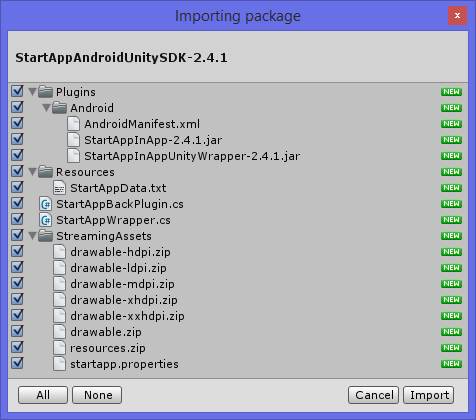
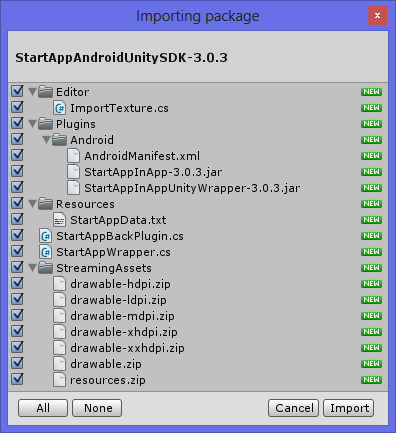
1

Changed region(s): [[0.0, 0.0, 1.0, 0.9905], [0.6364, 0.4024, 0.7576, 0.4643]]

diff --git a/unity/Android-InApp-Unity-Documentation.md b/unity/Android-InApp-Unity-Documentation.md
@@ -1,6 +1,6 @@
 <a name="top" />
 
-**Latest version: 2.4.13**
+**Latest version: 3.1.1**
 
 <img src="./unity/images/unity-android-intro.png" width="640px" /><br></br>
 
@@ -19,7 +19,7 @@ In order to add StartApp SDK to your application please follow the following ste
 
 <img src="./unity/images/unity-android-import-package.png" />
 
-**3.** Import all the package's items by pressing "All" and then "Import". If you already have an AndroidManifest.xml file, uncheck it before pressing "Import". 
+**3.** Import all the package's items by pressing "All" and then "Import".   
 <img src="./unity/images/unity-android-import-all.png" />
 
 [Back to top](#top)
@@ -34,18 +34,35 @@ Update the _manifest.xml_ (in the _Android_ folders) as follow:
 
 ```xml
 <activity android:name="com.startapp.android.publish.list3d.List3DActivity"
-          android:hardwareAccelerated="true"
-          android:theme="@android:style/Theme.NoTitleBar.Fullscreen"/>
-
-<activity android:name="com.startapp.android.publish.AppWallActivity" 
-          android:theme="@android:style/Theme.Translucent.NoTitleBar.Fullscreen" 
-          android:hardwareAccelerated="true"
-          android:configChanges="orientation|keyboardHidden|screenSize" />
+                        android:hardwareAccelerated="true"
+                        android:theme="@android:style/Theme" />
+<activity android:name="com.startapp.android.publish.OverlayActivity"
+                        android:theme="@android:style/Theme.Translucent.NoTitleBar.Fullscreen"
+                        android:hardwareAccelerated="true"
+                        android:windowSoftInputMode="stateHidden"
+                        android:configChanges="orientation|keyboardHidden|screenSize" />
+<activity android:name="com.startapp.android.publish.FullScreenActivity"
+                        android:hardwareAccelerated="true"
+                        android:theme="@android:style/Theme"
+                        android:configChanges="orientation|keyboardHidden|screenSize" />
 ```
 
 **2.** Make sure the meta-data parameter named `unityplayer.ForwardNativeEventsToDalvik` is set to `true`:
 ```xml
 <meta-data android:name="unityplayer.ForwardNativeEventsToDalvik" android:value="true" />
+```
+
+**3.** Add the following mandatory permissions
+```xml
+<uses-permission android:name="android.permission.INTERNET"/>
+<uses-permission android:name="android.permission.ACCESS_WIFI_STATE"/>
+<uses-permission android:name="android.permission.ACCESS_NETWORK_STATE"/>
+```
+
+**4.** Optional - add the following permissions (allow StartApp to show higher eCPM Geo-targeted ads):
+```xml
+<uses-permission android:name="android.permission.ACCESS_COARSE_LOCATION" />
+<uses-permission android:name="android.permission.ACCESS_FINE_LOCATION" />
 ```
 
 [Back to top](#top)
@@ -56,10 +73,8 @@ Update the _manifest.xml_ (in the _Android_ folders) as follow:
 ##Step 3, Updating your StartApp data file
 Update the _StartAppData.txt_ (in the Assets/Resources folders) as follows:
 
-**1.** Add your StartApp Account ID after ``developerId=``.  
-For example: ``developerId=103343523``  
-**2.** Add your StartApp Application ID after ``applicationId=``.   
-For example: ``applicationId=204346543``  
+**1.** Add your StartApp Account ID after ``accountId=`` <br></br>
+**2.** Add your StartApp Application ID after ``applicationId=`` <br></br>
 
 You can find your Account and Application IDs in the [developers’ portal](https://portal.startapp.com/#/signin).<br></br>
 After logging in, your account ID will be displayed at the top right-hand corner of the page:
@@ -68,12 +83,50 @@ After logging in, your account ID will be displayed at the top right-hand corner
 To find your application ID, click on the "Apps and Sites" tab on the left pane and choose the relevant ID from your app list:<br></br>
 <img src="./Android/images/android-appId.png" />
 
+[Back to top](#top)
+
+<a name="splash" />
+##Showing a Splash Ad (recommended)
+A Splash Ad is a full-page ad that is displayed immediately after the application is launched.
+A Splash Ad first displays a full page splash screen that you define (as described below) followed by a full page ad. 
+
+> **StartApp Splash Ad is a top performing ad unit, presenting the industry's highest CPM's**  
+> **supported for Unity v4.2 and above**    
+
+####Adding the Splash Screen 
+First, import the sdk namespace
+```csharp
+using StartApp;
+```
+
+Then, in the ``OnGUI()`` method of your script, call the following static function:
+```csharp
+void OnGUI () {
+#if UNITY_ANDROID
+StartAppWrapper.showSplash();
+#endif
+}
+```
+
+**If you wish to customize the splash screen, please refer to the [Advanced Usage](unity-android-advanced-usage#CustomizingSplashScreen).**
+
+[Back to top](#top)
+
+
+<a name="return" />
+##Showing Return Ads
+The **Return Ad** is a new ad unit which is displayed once the user returns to your application after a certain period of time.  To minimize the intrusiveness, short time periods are ignored. For example, the Return Ad won't be displayed if the user leaves your application to take a short phone call before returning. 
+
+Return ads are enabled and activated by default. If you want to disable this feature, simply change "returnAds" value to "false" in your StartApp data file (see "Step 3" above):
+```csharp
+returnAds=false;
+```
 
 [Back to top](#top)
 
 
 <br></br>
-<a name="step4" />
+<a name="exit" />
 ##Adding an exit ad to your project
 
 Use the *StartAppBackPlugin* in components where you would like the user to press 'back' to exit the application. The plugin will show an ad and then exit the application.
@@ -85,9 +138,75 @@ Use the *StartAppBackPlugin* in components where you would like the user to pres
 
 [Back to top](#top)
 
+<a name="interstitial" />
+##Showing Interstitial Ads
 
-<br></br>
-<a name="step5" />
+You can choose to show the interstitial ad in several locations within your application.
+This could be upon entering (``Start()``), between stages, while waiting for an action and more.
+
+We do, however, recommend showing the ad upon exiting the application by using the ‘Back’ button, as explained in the previous section.
+
+Add the following code to the appropriate place or places within your activities in which you would like to show the ad:
+
+**1.** Import the sdk namespace
+```csharp
+using StartApp;
+```
+
+**2.** Load the ad
+```csharp
+void Start () {
+#if UNITY_ANDROID
+StartAppWrapper.loadAd();
+#endif
+}
+```
+
+**3.** Show the ad
+```csharp
+#if UNITY_ANDROID
+StartAppWrapper.showAd();
+StartAppWrapper.loadAd();
+#endif
+```
+
+####Showing Rewarded Video Ads
+Rewarded Ads are interstitial video ads that provide a reward to the user in exchange for watching an entire video ad. The reward might be in-app goods, virtual currency or any premium content provided by the application. Because users actually opt-in to watch a rewarded video and are granted with something valuable in return, Rewarded Ads are an effective and clean monetization solution for stronger user retention and keeping users engaged in your application for a longer amount of time.
+
+In order to show a Rewarded Ad, follow the following steps:  
+**1.** Inside your ``Start()`` method, declare a video listener and load the rewarded video ad:
+```csharp
+#if UNITY_ANDROID
+videoListener = new VideoListenerImplementation ();
+StartAppWrapper.setVideoListener (videoListener);
+StartAppWrapper.loadAd(StartAppWrapper.AdMode.REWARDED_VIDEO);
+```
+
+**2.** 
+Implement the ``videoListener`` in order to get a callback when the user completes watching the video and is eligible for getting the reward:  
+```csharp
+#if UNITY_ANDROID
+public class VideoListenerImplementation : StartAppWrapper.VideoListener {
+   public void onVideoCompleted() {
+      // Grant user with the reward
+   }
+}
+#endif
+```
+
+**3.** Show the ad
+```csharp
+#if UNITY_ANDROID
+StartAppWrapper.showAd();
+StartAppWrapper.loadAd(StartAppWrapper.AdMode.REWARDED_VIDEO);
+#endif
+```
+ 
+> **IMPORTANT:** Loading an ad might take a few seconds especially in the case of a video, so it's important not to show the ad immediately after loading it. In case you call showAd() while the ad hasn't been successfully loaded yet, nothing will be displayed. It is recommended to use the "onReceiveAd" callback which is triggered when an ad was loaded and ready to use (see [Adding a Callback when an Interstitial Ad is loaded](https://github.com/StartApp-SDK/Documentation/wiki/unity-android-advanced-usage#load-callback)).
+
+[Back to top](#top)
+
+<a name="banners" />
 ##Showing Banners
 To add a banner to your application add the following code in the appropriate place:
 
@@ -113,42 +232,6 @@ void Start () {
 <br></br><img src="./iOS/images/V.png" hspace="15px" width="12px" /> StartAppWrapper.BannerPosition.TOP
 
 For advanced usage, such as showing a specific banner type or hiding the banner, please refer to the [Advanced Usage](unity-android-advanced-usage#banners).
-
-[Back to top](#top)
-
-
-<br></br>
-<a name="step6" />
-##Showing Interstitial Ads
-
-You can choose to show the interstitial ad in several locations within your application.
-This could be upon entering (onCreate), between stages, while waiting for an action and more.
-
-We do, however, recommend showing the ad upon exiting the application by using the ‘Back’ button as explained in step 4 above.
-
-Add the following code to the appropriate place or places within your activities in which you would like to show the ad:
-
-**1.** Import the sdk namespace
-```csharp
-using StartApp;
-```
-
-**2.** Load the ad
-```csharp
-void Start () {
-#if UNITY_ANDROID
-StartAppWrapper.loadAd();
-#endif
-}
-```
-
-**3.** Show the ad
-```csharp
-#if UNITY_ANDROID
-StartAppWrapper.showAd();
-StartAppWrapper.loadAd();
-#endif
-```
 
 [Back to top](#top)
 

diff --git a/unity/Unity-Android-Advanced-Usage.md b/unity/Unity-Android-Advanced-Usage.md
@@ -56,7 +56,7 @@ StartAppWrapper.removeBanner(StartAppWrapper.BannerPosition.BOTTOM);
 #endif
 ```
 
-In order to show the banner again, simply use the addBanner() method as described in ["Showing Banners"](Android-InApp-Unity-Documentation#step5).
+In order to show the banner again, simply use the addBanner() method as described in ["Showing Banners"](Android-InApp-Unity-Documentation#banners).
 
 [Back to top](#top)
 
@@ -83,5 +83,83 @@ public void adDisplayed(){
 public void adClicked(){
 }
 ```
+
+[Back to top](#top)
+
+
+<a name="CustomizingSplashScreen" />
+##Customizing the Splash Screen
+StartApp In-Ad provides a few pre-defined templates of splash screens in which you can place your own creatives, such as application name, logo and loading animation, as described below.
+
+####Customizing the Splash Screen
+In the ``Start()`` method of your script, call the following static function:
+```csharp
+#if UNITY_ANDROID
+StartAppWrapper.showSplash(splashConfig);
+#endif
+```
+
+Apply the following parameters:
++ **``splashConfig``**: Optional object that can be used to customize some of your template's properties to suit your needs, such as your application name, logo and theme (see the example below). For a full description of the SplashConfig API, please refer to [SplashConfig API](#SplashConfig-API).
+
+**Example:** the following is an example of a custom template with an OCEAN theme, modified application name, logo and landscape orientation:
+```csharp
+#if UNITY_ANDROID
+StartAppWrapper.showSplash(new StartAppWrapper.SplashConfig()
+				.setTheme(StartAppWrapper.SplashConfig.Theme.OCEAN)
+				.setAppName("Your Application Name")
+				.setLogo("Your logo")
+				.setOrientation(StartAppWrapper.SplashConfig.Orientation.LANDSCAPE)				
+);
+#endif
+```
+> **NOTE:** for optimal appearance of your Splash screen on all device densities, provide a logo of 360x360px and place it in the Resources folder of your project. 
+> If you do not provide a logo, then StartApp In-App uses the default application icon (as declared in the Manifest) and stretches it to 360x360px.
+
+[Back to top](#top)
+
+<a name="SplashConfig-API" />
+##SplashConfig API
+The following describes the methods that you can use for customizing the Splash screen displayed in a StartApp In-App Splash screen Ad.
+
+####► Set the Splash screen mode
+> **```public SplashConfig setTheme(StartAppWrapper.SplashConfig.Theme theme)```**
+
+Sets the Splash theme.
+Use one of the options below to select a design theme for your splash screen.  
+
+**Parameters**<br></br>
+*SplashConfig.Theme.DEEP_BLUE* (default)<br></br>
+*SplashConfig.Theme.SKY*<br></br>
+*SplashConfig.Theme.ASHEN_SKY*<br></br>
+*SplashConfig.Theme.BLAZE*<br></br>
+*SplashConfig.Theme.GLOOMY*<br></br>
+*SplashConfig.Theme.OCEAN* <br></br>
+
+####► Set the application name
+> **```public SplashConfig setAppName(String appName)```**<br></br>
+
+Sets the application name to be used in the Template mode.
+
+**Parameters**<br></br>
+*String* (default is the application name from the manifest).
+
+####► Set the logo
+> **```public SplashConfig setLogo(String logo)```**<br></br>
+
+Sets the logo to be displayed in the Template mode.
+
+**Parameters**<br></br>
+*logo* the logo resource name under the Resources folder (default is the icon resource from the manifest).
+
+####► Set the orientation
+> **```public SplashConfig setOrientation(StartAppWrapper.SplashConfig.Orientation orientation)```**<br></br>
+
+Sets the orientation to be used.
+
+**Parameters**<br></br>
+*StartAppWrapper.SplashConfig.Orientation.PORTRAIT* (default)<br></br>
+*StartAppWrapper.SplashConfig.Orientation.LANDSCAPE*<br></br>
+*StartAppWrapper.SplashConfig.Orientation.AUTO* (use the device's orientation upon entering the application)<br></br>
 
 [Back to top](#top)

diff --git a/unity/_Sidebar.md b/unity/_Sidebar.md
@@ -6,13 +6,18 @@
 
 [**Step 3, Updating your StartApp data file**](Android-InApp-Unity-Documentation#step3)
 
-[**Showing Exit Ads**](Android-InApp-Unity-Documentation#step4)
+[**Showing a Splash Ad**](Android-InApp-Unity-Documentation#splash)
 
-[**Showing Banners**](Android-InApp-Unity-Documentation#step5)
+[**Showing Return Ads**](Android-InApp-Unity-Documentation#return)
 
-[**Showing Interstitial Ads**](Android-InApp-Unity-Documentation#step6)
+[**Showing Exit Ads**](Android-InApp-Unity-Documentation#exit)
+
+[**Showing Interstitial Ads**](Android-InApp-Unity-Documentation#interstitial)
+
+[**Showing Banners**](Android-InApp-Unity-Documentation#banners)
 
 [**Advanced Usage**](unity-android-advanced-usage)<br></br>
   [Customizing your Banner](unity-android-advanced-usage#banner-type)<br></br> 
   [Adding Callback when Ad has loaded](unity-android-advanced-usage#load-callback)<br></br> 
   [Adding a callback when Ad has been displayed or clicked](unity-android-advanced-usage#close-callback)<br></br> 
+  [Customizing the Splash Screen](unity-android-advanced-usage#CustomizingSplashScreen)<br></br> 
